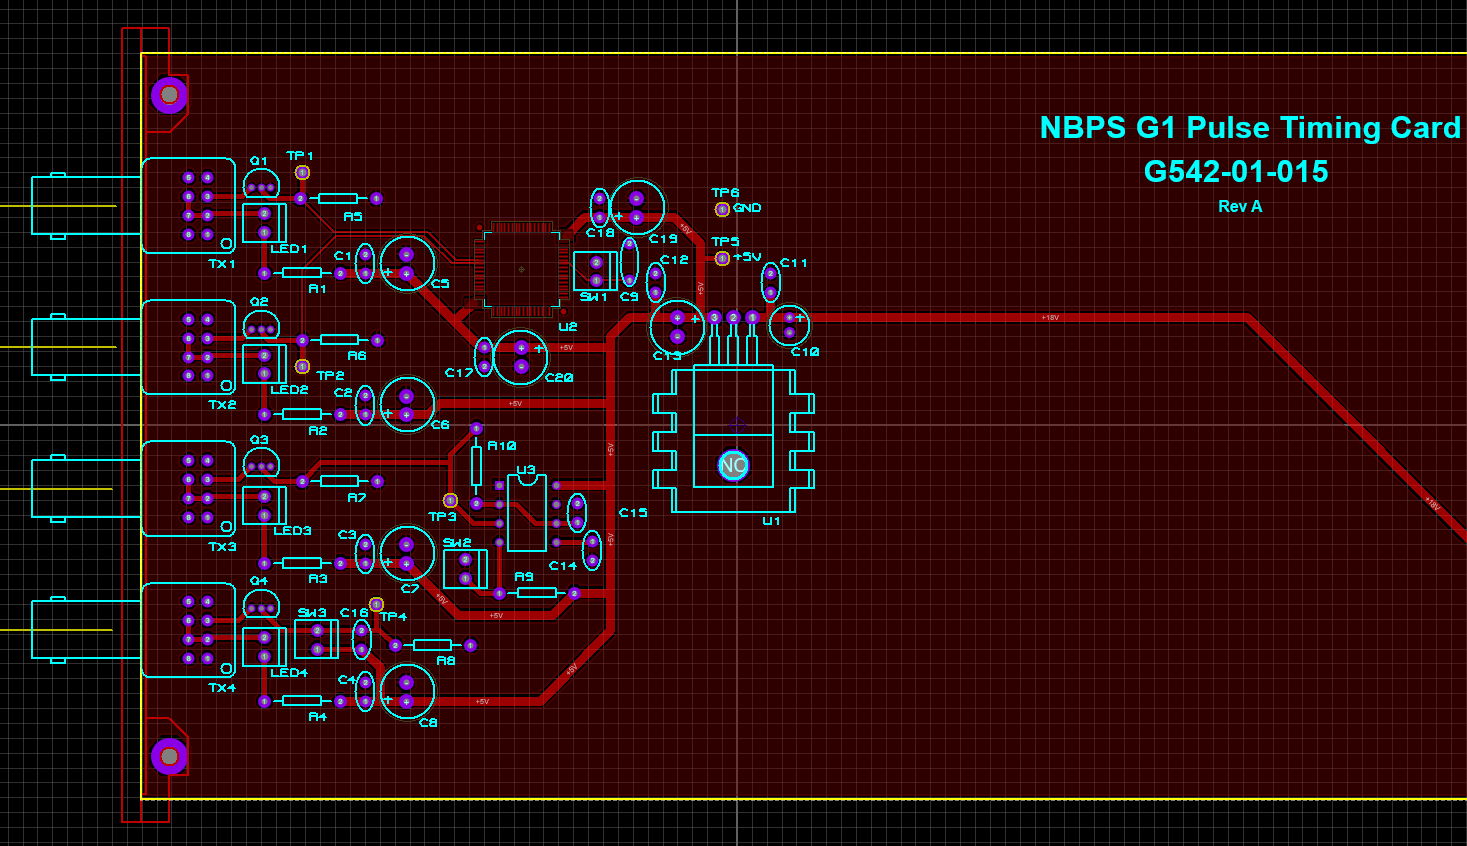
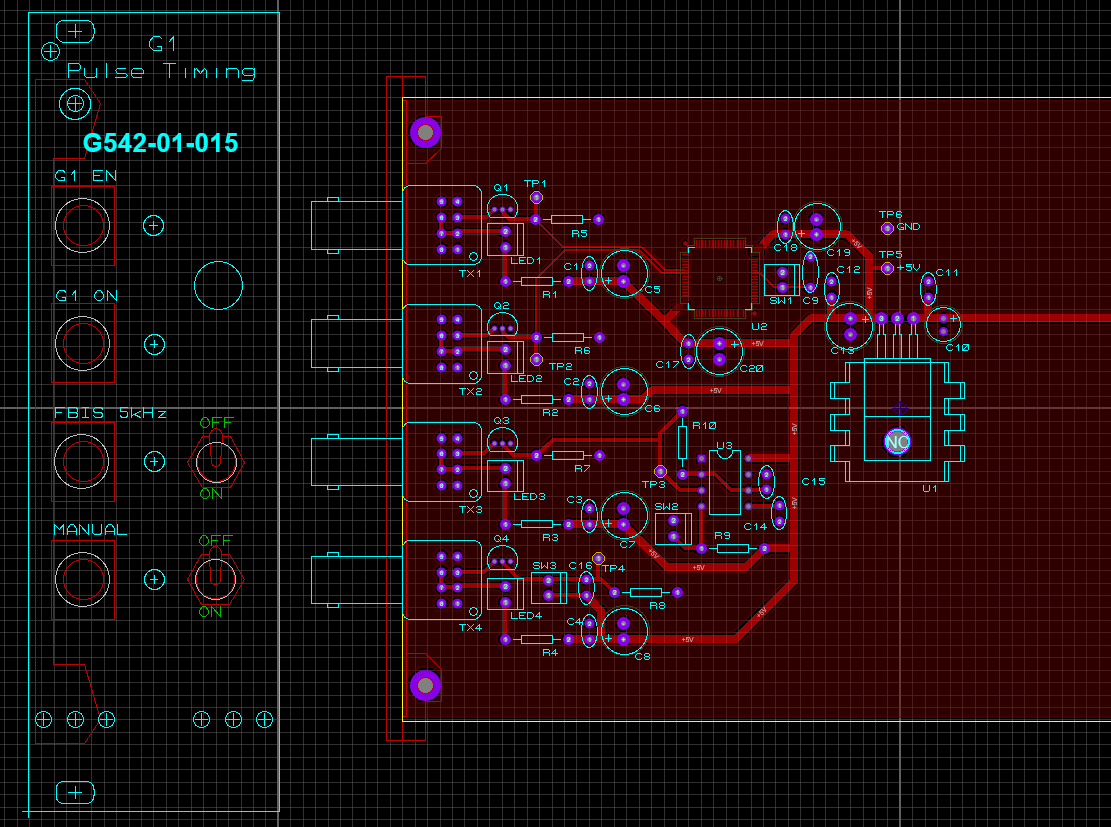
Update embed PCB post

diff --git a/_portfolio/embed-PCB.md b/_portfolio/embed-PCB.md
@@ -79,7 +79,18 @@ This program is very simple, it takes the following actions in order:
 Once the program was sufficiently tested on the development board ([Nucleo-F401RE](https://www.st.com/en/evaluation-tools/nucleo-f401re.html)) a full prototype board was assembled. 
 <img src="{{ site.url }}{{ site.baseurl }}/assets/images/p1-prototype.jpg" alt="Prototype board">
 
-This was fully tested on the plant and operated as expected. The next stage was to design a PCB layout in Proteus, to be sent out for procurement.
-<img src="{{ site.url }}{{ site.baseurl }}/assets/images/p1-PCB-layout.PNG" alt="PCB Layout" caption="PCB Layout">
+This was fully tested on the plant and operated as expected.  
 
-This design 
+The design was then taken from schematic to PCB layout in Proteus. A two layer design with a single ground plane was used. A front panel for the board was also designed, insuring alignment with the fibre transmitters and screw holes. 
+<img src="{{ site.url }}{{ site.baseurl }}/assets/images/p1-PCB-layout.PNG" alt="PCB Layout">
+
+This design could be improved as there are some choke-points within the ground plane. A future revision may re-track the lines to more uniformly cover the top and bottom layers. Note: this design does not include programming/debugging terminals. The main power connector is off-screen to the right.  
+
+Proteus can also make a 3D visual to show how the final component will look.  
+<img src="{{ site.url }}{{ site.baseurl }}/assets/images/p1-PCB-3D.PNG" alt="3D Visualiser">  
+
+The final stage of the process is generating a Bill of Materials (BOM) that specifies the components to be used on the final PCB. This involves searching component sites ([RS](https://uk.rs-online.com/web/), [Mouser](https://www.mouser.co.uk/), [Farnell](https://uk.farnell.com/)), reading datasheets, and sometimes testing components in a lab. For example I tested the current consumption of the LED, Fibre Transmitter, and MOSFET in series to ensure the correct resistor value to use above them.  
+
+Proteus is used again to generate [Gerber files](https://en.wikipedia.org/wiki/Gerber_format) which are sent, along with the BOM, to a manufacturer. 
+
+My board has not yet been manufactured but I will update this post with a picture and an example operation gif when it is.
